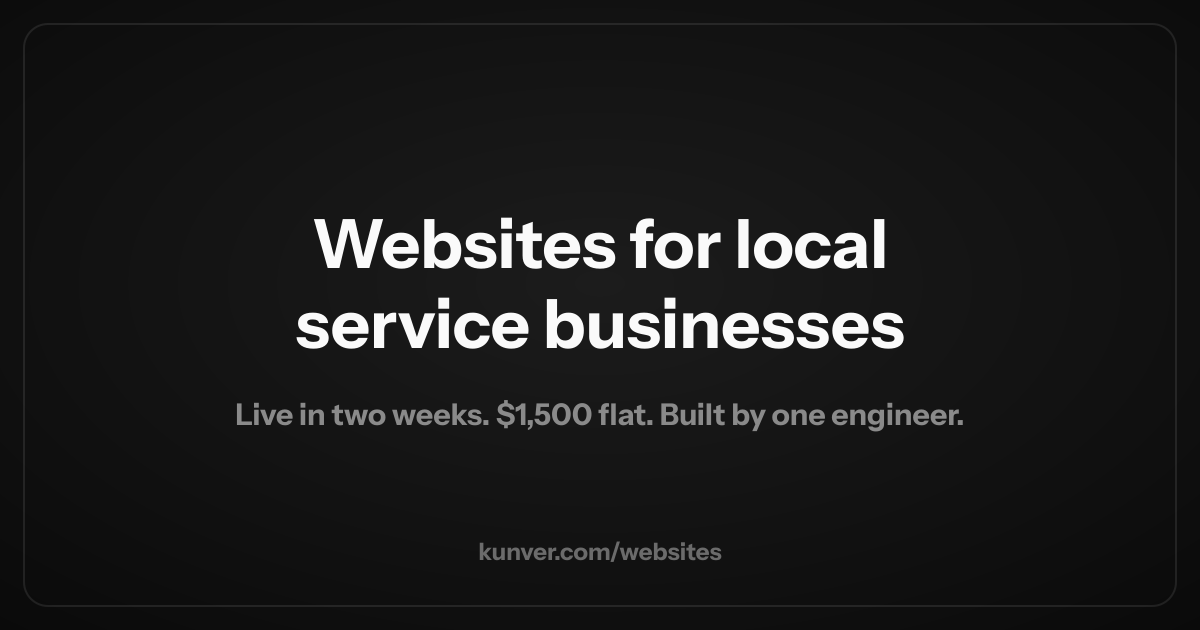
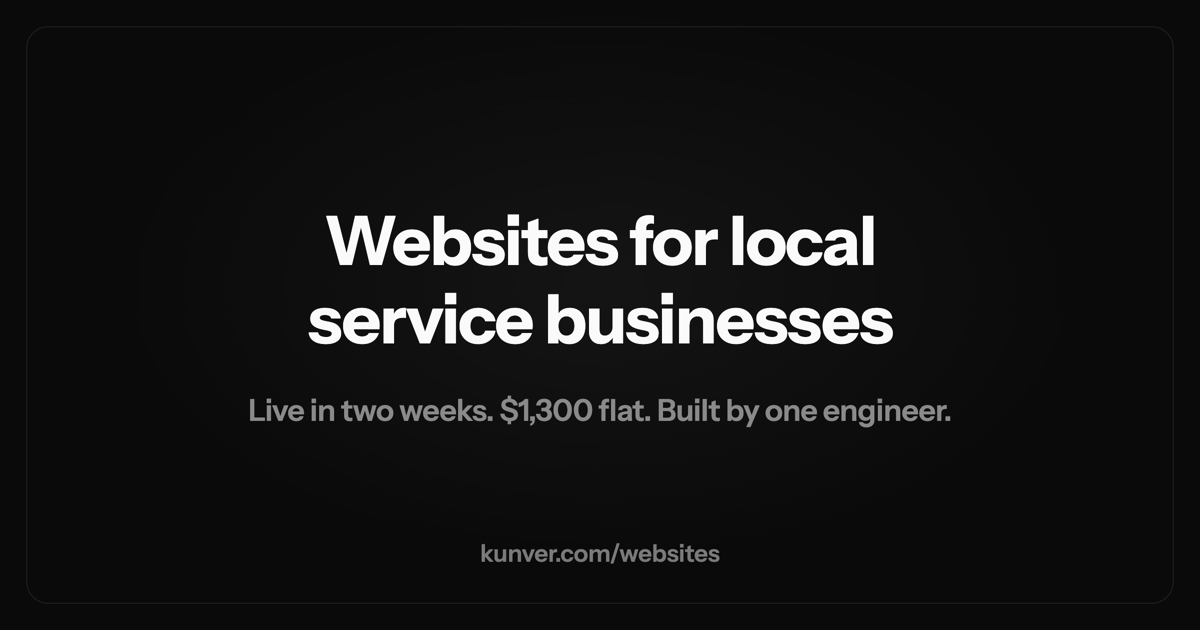
Drop website build price to $1,300 across page, homepage card, metadata, and OG image
- /websites: $1,300 with $500 deposit, $800 at launch
- JSON-LD offer price and OG alt text updated
- og-websites.png regenerated with new price

diff --git a/src/app/websites/layout.jsx b/src/app/websites/layout.jsx
@@ -12,7 +12,7 @@ export const metadata = {
     url: 'https://www.kunver.com/websites',
     type: 'website',
     siteName: 'Keshav Kunver',
-    images: [{ url: '/og-websites.png', width: 1200, height: 630, alt: 'Websites for local service businesses. Live in two weeks, $1,500 flat.' }],
+    images: [{ url: '/og-websites.png', width: 1200, height: 630, alt: 'Websites for local service businesses. Live in two weeks, $1,300 flat.' }],
   },
   twitter: {
     card: 'summary_large_image',
@@ -43,7 +43,7 @@ export default function WebsitesLayout({ children }) {
               {
                 '@type': 'Offer',
                 name: 'Website build',
-                price: '1500',
+                price: '1300',
                 priceCurrency: 'USD',
                 description:
                   'Up to 5 pages, mobile-first, live on your domain in about two weeks.',

diff --git a/src/app/websites/page.jsx b/src/app/websites/page.jsx
@@ -136,9 +136,9 @@ export default function WebsitesPage() {
             <p className="text-sm font-medium text-text-tertiary uppercase tracking-wide mb-2">
               The build
             </p>
-            <p className="text-4xl font-bold text-text-primary mb-4">$1,500</p>
+            <p className="text-4xl font-bold text-text-primary mb-4">$1,300</p>
             <p className="text-text-secondary leading-loose mb-3">
-              $500 deposit to start, $1,000 at launch. Roughly two weeks from
+              $500 deposit to start, $800 at launch. Roughly two weeks from
               kickoff to live.
             </p>
             <p className="text-text-tertiary text-sm mb-6 flex-1">

diff --git a/src/components/sections/WorkWithMe.jsx b/src/components/sections/WorkWithMe.jsx
@@ -18,7 +18,7 @@ const offers = [
     label: 'Done for you',
     title: 'Websites for local service businesses',
     body: "I build the site myself and it's live in about two weeks. The full price and process is on the page.",
-    price: '$1,500 flat. Optional $99/month maintenance.',
+    price: '$1,300 flat. Optional $99/month maintenance.',
     linkText: "See what's included",
     href: '/websites',
   },
